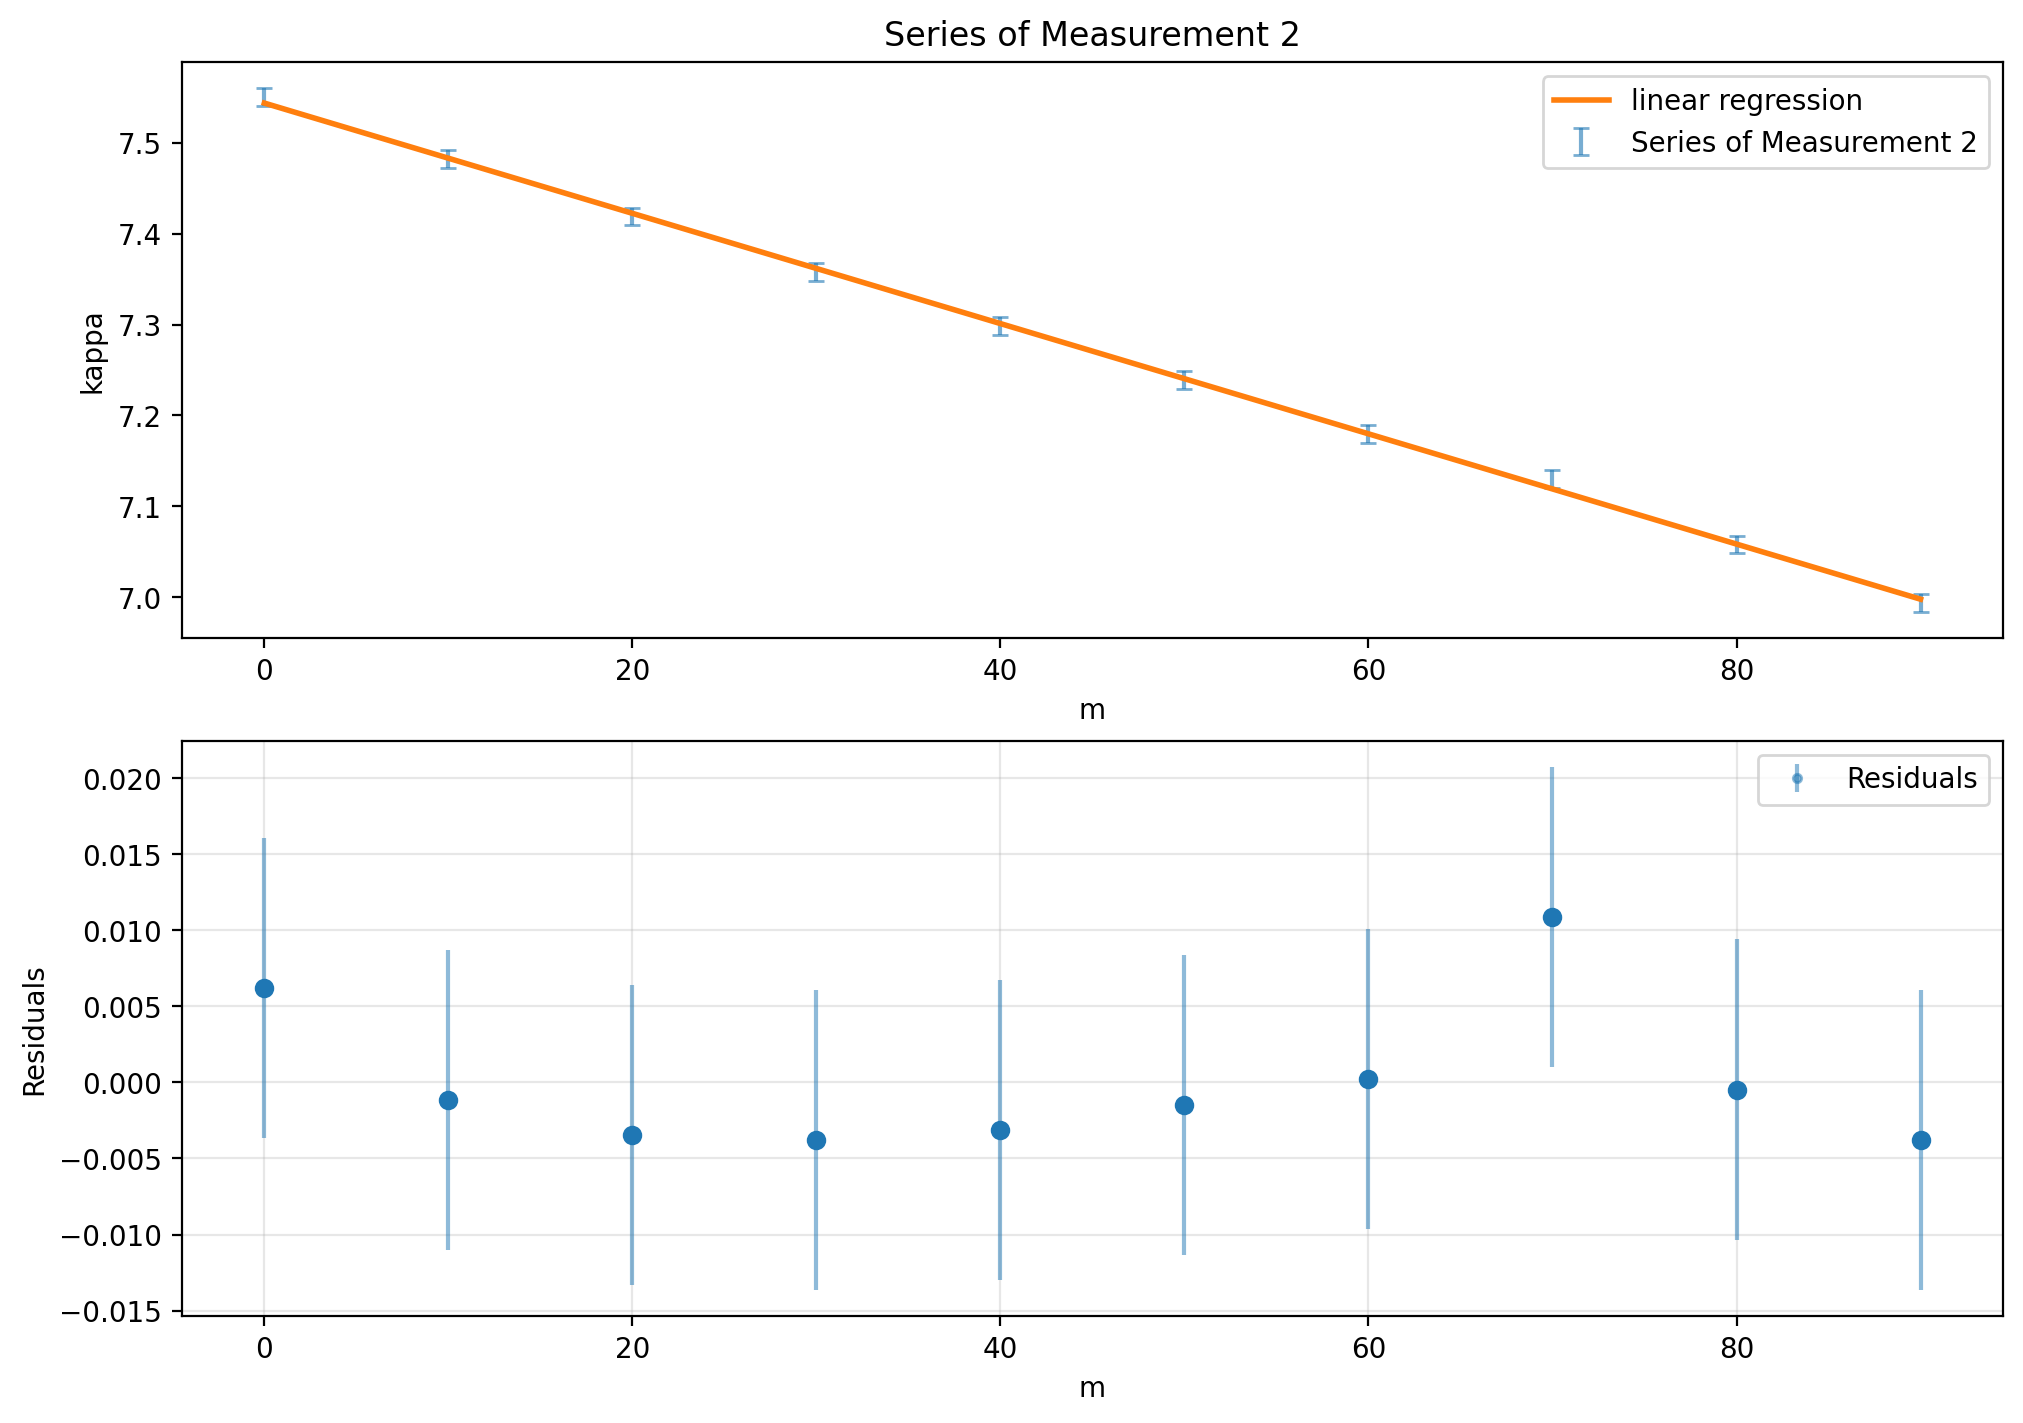
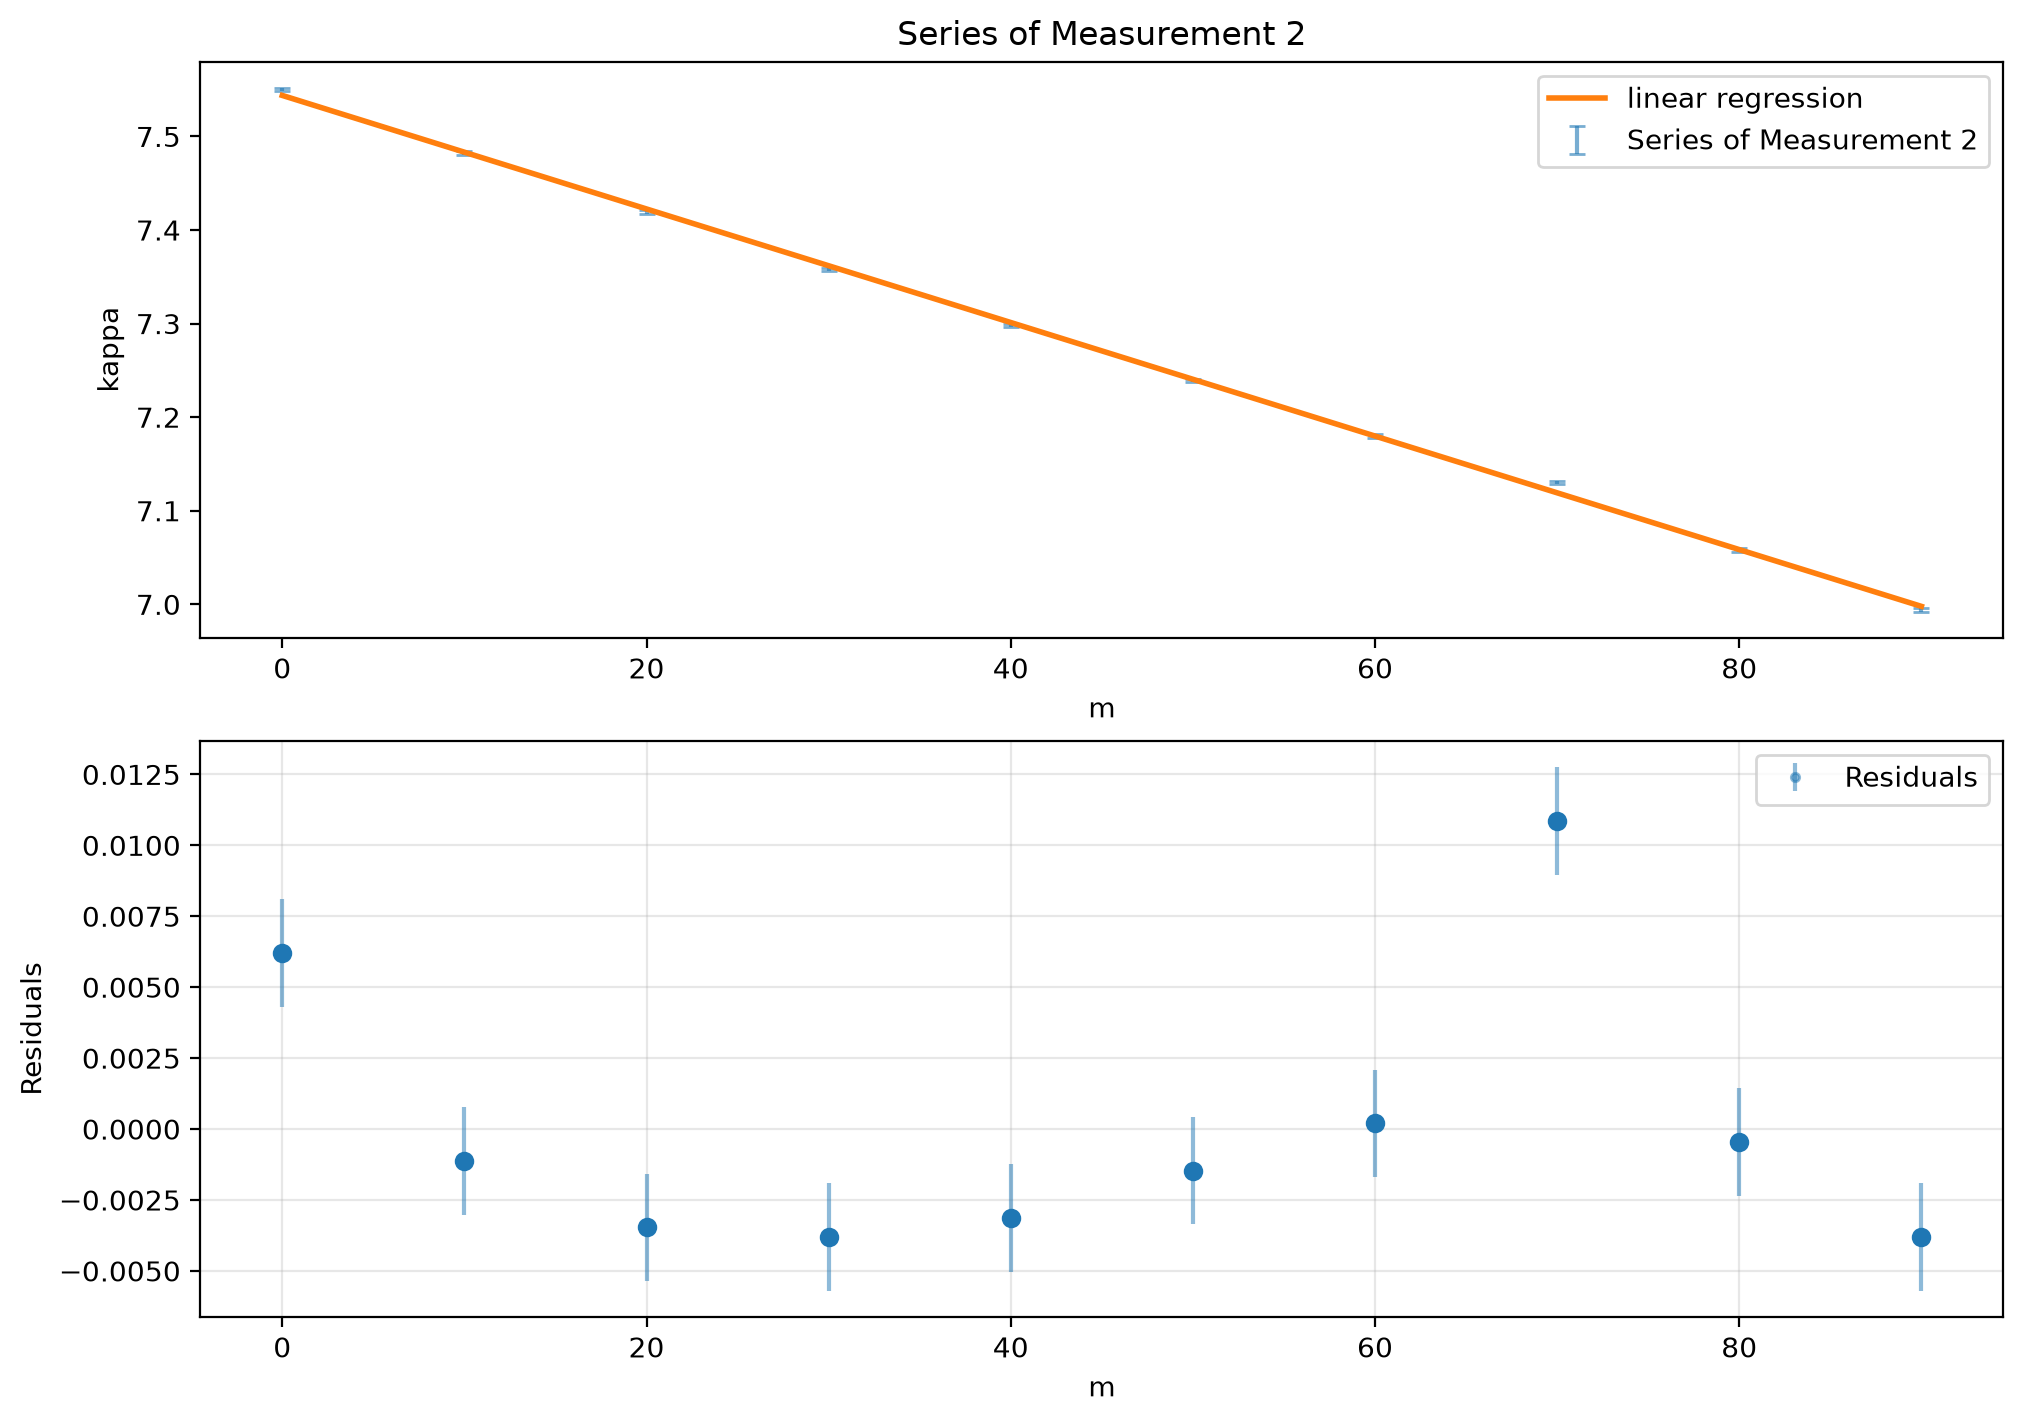
hab paar fehler gefunden

diff --git a/V3_Optik2/Valentin/Leon/auswertung_leon.py b/V3_Optik2/Valentin/Leon/auswertung_leon.py
@@ -1,0 +1,242 @@
+import matplotlib.pyplot as plt
+import numpy as np
+import uncertainties as un
+from praktikum import analyse
+from scipy.optimize import curve_fit
+from pathlib import Path
+
+OUTPUT = Path(r'V3_Optik2/Valentin/OutputDatein')
+OUTPUT.mkdir(exist_ok=True)
+
+DATA_noise_red   = [7.446, 7.443, 7.448, 7.443, 7.443, 7.443, 7.442, 7.443, 7.443, 7.442]
+DATA_noise_green = [7.487, 7.489, 7.483, 7.483, 7.483, 7.482, 7.482, 7.482, 7.487, 7.485]
+
+DATA_preasure_1 = [988, 872, 752, 615, 510, 418, 291]
+DATA_preasure_2 = [988, 864, 762, 640, 520, 402, 269]
+DATA_preasure_3 = [989, 868, 759, 632, 504, 391, 264]
+DATA_preasure_4 = [988, 878, 759, 631, 506, 405, 290]
+DATA_preasure_5 = [988, 865, 743, 620, 500, 378, 281]
+DATA_preasure_m = [  0,   1,   2,   3,   4,   5,   6]
+DATA_kum_p = [DATA_preasure_1, DATA_preasure_2, DATA_preasure_3, DATA_preasure_4, DATA_preasure_5]
+
+DATA_kappa_1 = [7.550, 7.485, 7.435, 7.367, 7.305, 7.244, 7.186, 7.130, 7.065, 7.005]
+DATA_kappa_2 = [7.550, 7.482, 7.419, 7.358, 7.298, 7.239, 7.180, 7.130, 7.058, 6.994]
+DATA_kappa_3 = [7.549, 7.483, 7.423, 7.362, 7.302, 7.243, 7.183, 7.119, 7.070, 7.003]
+DATA_kappa_m = [    0,    10,    20,    30,    40,    50,    60,    70,    80,    90]
+DATA_kum_k = [DATA_kappa_1, DATA_kappa_2, DATA_kappa_3]
+
+DATA_lambda_1 = [7.549, 7.491, 7.438, 7.385, 7.334, 7.281, 7.233, 7.180, 7.136, 7.072, 7.030]
+DATA_lambda_2 = [7.550, 7.500, 7.448, 7.395, 7.343, 7.294, 7.244, 7.193, 7.142, 7.085, 7.042]
+DATA_lambda_3 = [7.550, 7.494, 7.440, 7.389, 7.338, 7.289, 7.233, 7.185, 7.130, 7.079, 7.028]
+DATA_lambda_m = [    0,    10,    20,    30,    40,    50,    60,    70,    80,    90,   100]
+DATA_kum_l = [DATA_lambda_1, DATA_lambda_2, DATA_lambda_3]
+
+def rauschmessung (DATA, bins=25, dateiname='Rauschmessung'):
+    
+    mean, std = analyse.mittelwert_stdabw(DATA)
+    
+    fig, ax = plt.subplots()
+    ax.hist(DATA, label='Histogram of Noise Values', bins=bins)
+    ax.axvline(mean, color='tab:red',ls='--', label=f'Mean = {mean:.4f} V')
+    ax.axvline(mean+std, color='tab:gray',ls='--', label=f'U = {mean:.4f}+-{std:.4f} V')
+    ax.axvline(mean-std, color='tab:gray',ls='--')
+    ax.set_xlabel('s [mm]')
+    ax.set_ylabel('Frequency')
+    ax.set_title(f'S Noise Measurement $\sigma$ = {std:.4f} mm (n={len(DATA)})')
+    ax.legend()
+    fig.tight_layout()
+    fig.savefig(OUTPUT / dateiname, dpi=150)
+    plt.close(fig)
+    
+    return mean, std
+
+def DATA_analyse(DATA, noise_sigma, y_label, dateiname_zusatz, i):
+    
+    m = np.array(DATA[0])
+    p = np.array(DATA[1])
+        
+    def f(m, A, B):
+        return A * m + B
+    
+    if noise_sigma:
+        popt, pcov = curve_fit(f, m, p, sigma=noise_sigma, absolute_sigma=True)
+    else:
+         popt, pcov = curve_fit(f, m, p)
+         
+    a = popt[0]
+    b = popt[1]
+    
+    ea = np.sqrt(pcov[0,0])
+    eb = np.sqrt(pcov[1,1])
+    
+    fit = f(m, *popt)
+    residuals = (p - fit)
+    
+    if noise_sigma:
+        chiq = np.sum((residuals / noise_sigma)**2)
+    else:
+        sigma = np.std(residuals, ddof=len(popt))
+        chiq = np.sum((residuals / sigma)**2)
+        
+    dof = len(m) - len(popt)
+    chiq_dof = chiq / dof
+    
+    fig, [ax, rs] = plt.subplots(
+        2,
+        figsize=(10,7),
+        constrained_layout=True
+    )
+    ax.errorbar(
+        m,
+        p,
+        fmt='',
+        capsize=3,
+        yerr=noise_sigma,  ### idk
+        ls='',
+        label=f'Series of Measurement {i+1}',
+        color='tab:blue',
+        alpha=0.6
+        )
+    ax.plot(
+        m,
+        fit,
+        lw=2,
+        color='tab:orange',
+        label=f'linear regression'
+        )
+    ax.set_xlabel('m')
+    ax.set_ylabel(y_label)
+    ax.set_title(f'Series of Measurement {i+1}')
+    ax.legend(loc='upper right')
+    inter = 1
+    rs.plot(
+        m,
+        residuals,
+        marker='o',
+        ls='',
+        color='tab:blue',
+        alpha=1
+    )
+    rs.errorbar(
+        m,
+        residuals,
+        fmt='.',
+        color='tab:blue',
+        yerr=noise_sigma, ### idk
+        label='Residuals',
+        alpha=0.5
+        )
+    rs.set_xlabel('m')
+    rs.set_ylabel('Residuals')
+    rs.grid(True, alpha=0.3)
+    rs.legend(loc='upper right')
+    fig.savefig(OUTPUT / f'Messung_Plus_Fit_{dateiname_zusatz}_{i+1}', dpi=200, bbox_inches='tight')
+    plt.close(fig)
+    
+    return a, b, ea, eb, chiq_dof, pcov
+
+mittel_red, sigma_red = rauschmessung(DATA_noise_red, dateiname='Rauschmessung_red')
+mittel_green, sigma_green = rauschmessung(DATA_noise_green, dateiname='Rauschmessung_green')
+
+a_p_list        = []
+b_p_list        = []
+ea_p_list       = []
+eb_p_list       = []
+chiq_dof_p_list = []
+for i, DATA in enumerate(DATA_kum_p):
+    a_p, b_p, ea_p, eb_p, chiq_dof_p, _ = DATA_analyse([DATA_preasure_m, DATA], 1, 'Preasure p [hPa]', 'Druck', i) # sigma ca = 8 ?? idk
+    
+    print(f'\nFit {i+1}:')
+    print(f'a = ({a_p:.4f} +/- {ea_p:.4f})')
+    print(f'b = ({b_p:.4f} +/- {eb_p:.4f})')
+    print(f'Chi2 / dof = {chiq_dof_p:.5f}')
+    
+    a_p_list.append(a_p)
+    b_p_list.append(b_p)
+    ea_p_list.append(ea_p)
+    eb_p_list.append(eb_p)
+    chiq_dof_p_list.append(chiq_dof_p)
+    
+mean_a_p = np.mean(a_p_list)
+std_a_p  = np.std(a_p_list, ddof=1)
+stat_a_p = std_a_p / np.sqrt(len(a_p_list))
+
+mean_b_p = np.mean(b_p_list)
+std_b_p  = np.std(b_p_list, ddof=1)
+stat_b_p = std_b_p / np.sqrt(len(b_p_list))
+
+mean_chiq_dof = np.mean(chiq_dof_p_list)
+
+print(f'\nMittelwert a_p = ({mean_a_p:.5f} +/- {stat_a_p:.5f})')
+print(f'Mittelwert b_p = ({mean_b_p:.5f} +/- {stat_b_p:.5f})')
+print(f'Mean Chi2 / dof = {mean_chiq_dof:.5f}')
+
+
+a_k_list        = []
+b_k_list        = []
+ea_k_list       = []
+eb_k_list       = []
+chiq_dof_k_list = []
+for i, DATA in enumerate(DATA_kum_k):
+    a_k, b_k, ea_k, eb_k, chiq_dof_k, _ = DATA_analyse([DATA_kappa_m, DATA], sigma_red, 'kappa', 'Kappa', i)
+    
+    print(f'\nFit {i+1}:')
+    print(f'a = ({a_k:.4f} +/- {ea_k:.4f})')
+    print(f'b = ({b_k:.4f} +/- {eb_k:.4f})')
+    print(f'Chi2 / dof = {chiq_dof_k:.5f}')
+    
+    a_k_list.append(a_k)
+    b_k_list.append(b_k)
+    ea_k_list.append(ea_k)
+    eb_k_list.append(eb_k)
+    chiq_dof_k_list.append(chiq_dof_k)
+    
+mean_a_k = np.mean(a_k_list)
+std_a_k  = np.std(a_k_list, ddof=1)
+stat_a_k = std_a_k / np.sqrt(len(a_k_list))
+
+mean_b_k = np.mean(b_k_list)
+std_b_k  = np.std(b_k_list, ddof=1)
+stat_b_k = std_b_k / np.sqrt(len(b_k_list))
+
+mean_chiq_dof_k = np.mean(chiq_dof_k_list)
+
+print(f'\nMittelwert a_k = ({mean_a_k:.5f} +/- {stat_a_k:.5f})')
+print(f'Mittelwert b_k = ({mean_b_k:.5f} +/- {stat_b_k:.5f})')
+print(f'Mean Chi2 / dof = {mean_chiq_dof_k:.5f}')
+print(f'Rauschmessung Red: {mittel_red} +/- {sigma_red}')
+
+
+a_l_list        = []
+b_l_list        = []
+ea_l_list       = []
+eb_l_list       = []
+chiq_dof_l_list = []
+for i, DATA in enumerate(DATA_kum_l):
+    a_l, b_l, ea_l, eb_l, chiq_dof_l, _ = DATA_analyse([DATA_lambda_m, DATA], sigma_green, 'lambda', 'Lambda', i)
+    
+    print(f'\nFit {i+1}:')
+    print(f'a = ({a_l:.4f} +/- {ea_l:.4f})')
+    print(f'b = ({b_l:.4f} +/- {eb_l:.4f})')
+    print(f'Chi2 / dof = {chiq_dof_l:.5f}')
+    
+    a_l_list.append(a_l)
+    b_l_list.append(b_l)
+    ea_l_list.append(ea_l)
+    eb_l_list.append(eb_l)
+    chiq_dof_l_list.append(chiq_dof_l)
+    
+mean_a_l = np.mean(a_l_list)
+std_a_l  = np.std(a_l_list, ddof=1)
+stat_a_l = std_a_l / np.sqrt(len(a_l_list))
+
+mean_b_l = np.mean(b_l_list)
+std_b_l  = np.std(b_l_list, ddof=1)
+stat_b_l = std_b_l / np.sqrt(len(b_l_list))
+
+mean_chiq_dof_l = np.mean(chiq_dof_l_list)
+
+print(f'\nMittelwert a_l = ({mean_a_l:.5f} +/- {stat_a_l:.5f})')
+print(f'Mittelwert b_l = ({mean_b_l:.5f} +/- {stat_b_l:.5f})')
+print(f'Mean Chi2 / dof = {mean_chiq_dof_l:.5f}')
+print(f'Rauschmessung Green: {mittel_green} +/- {sigma_green}')
